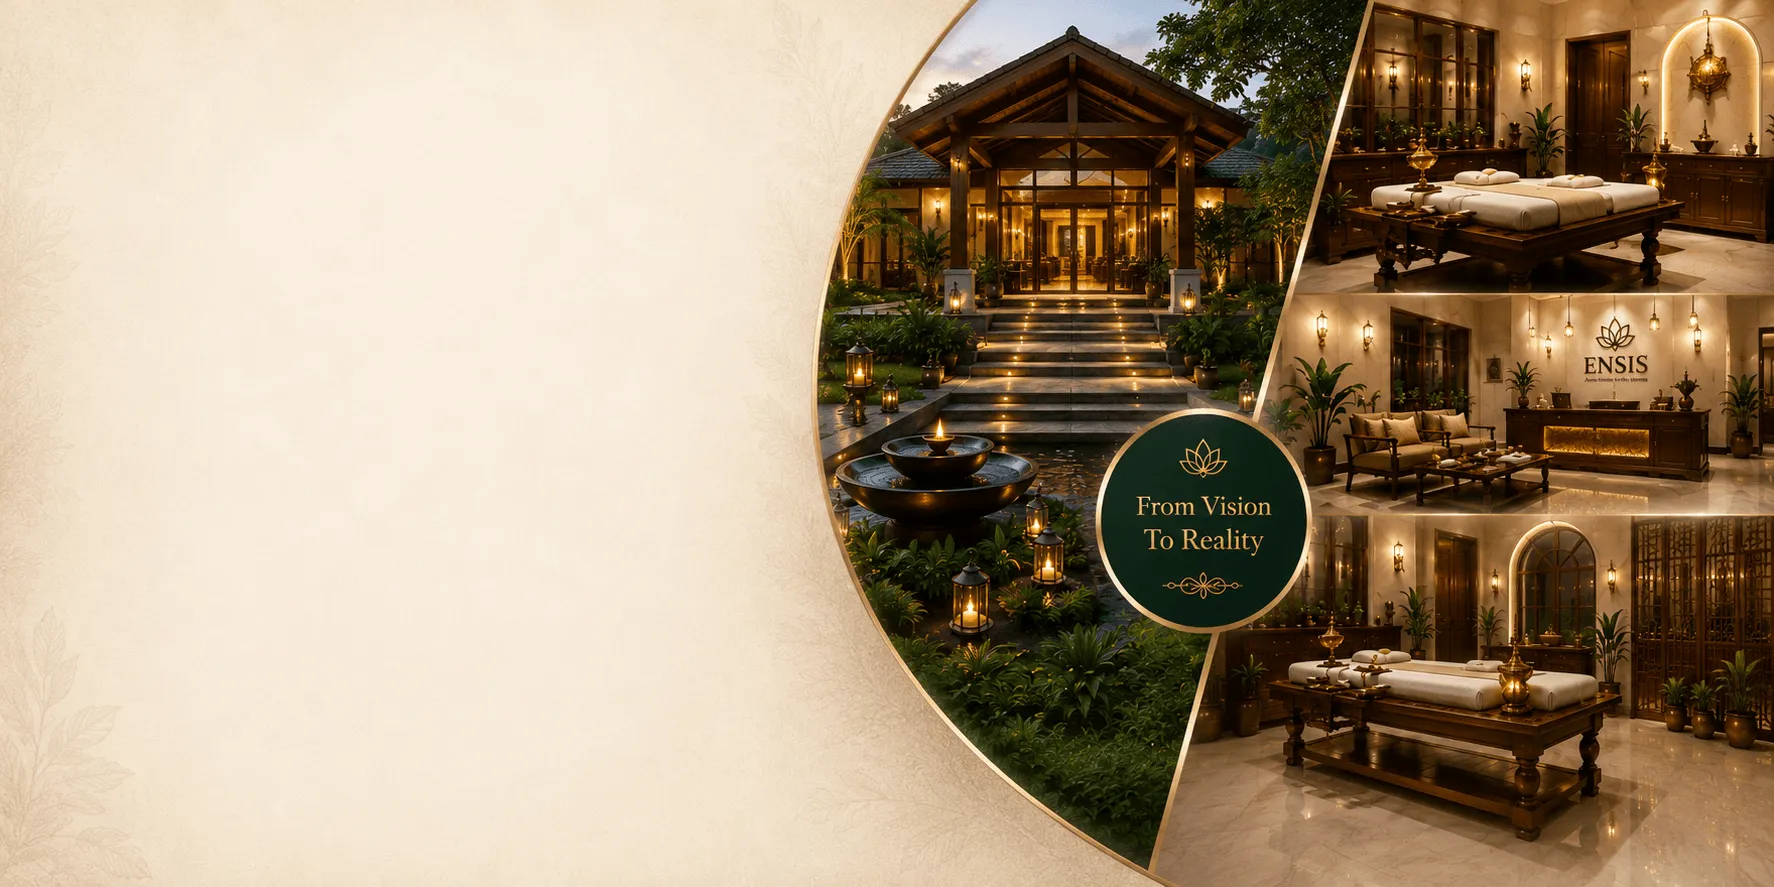
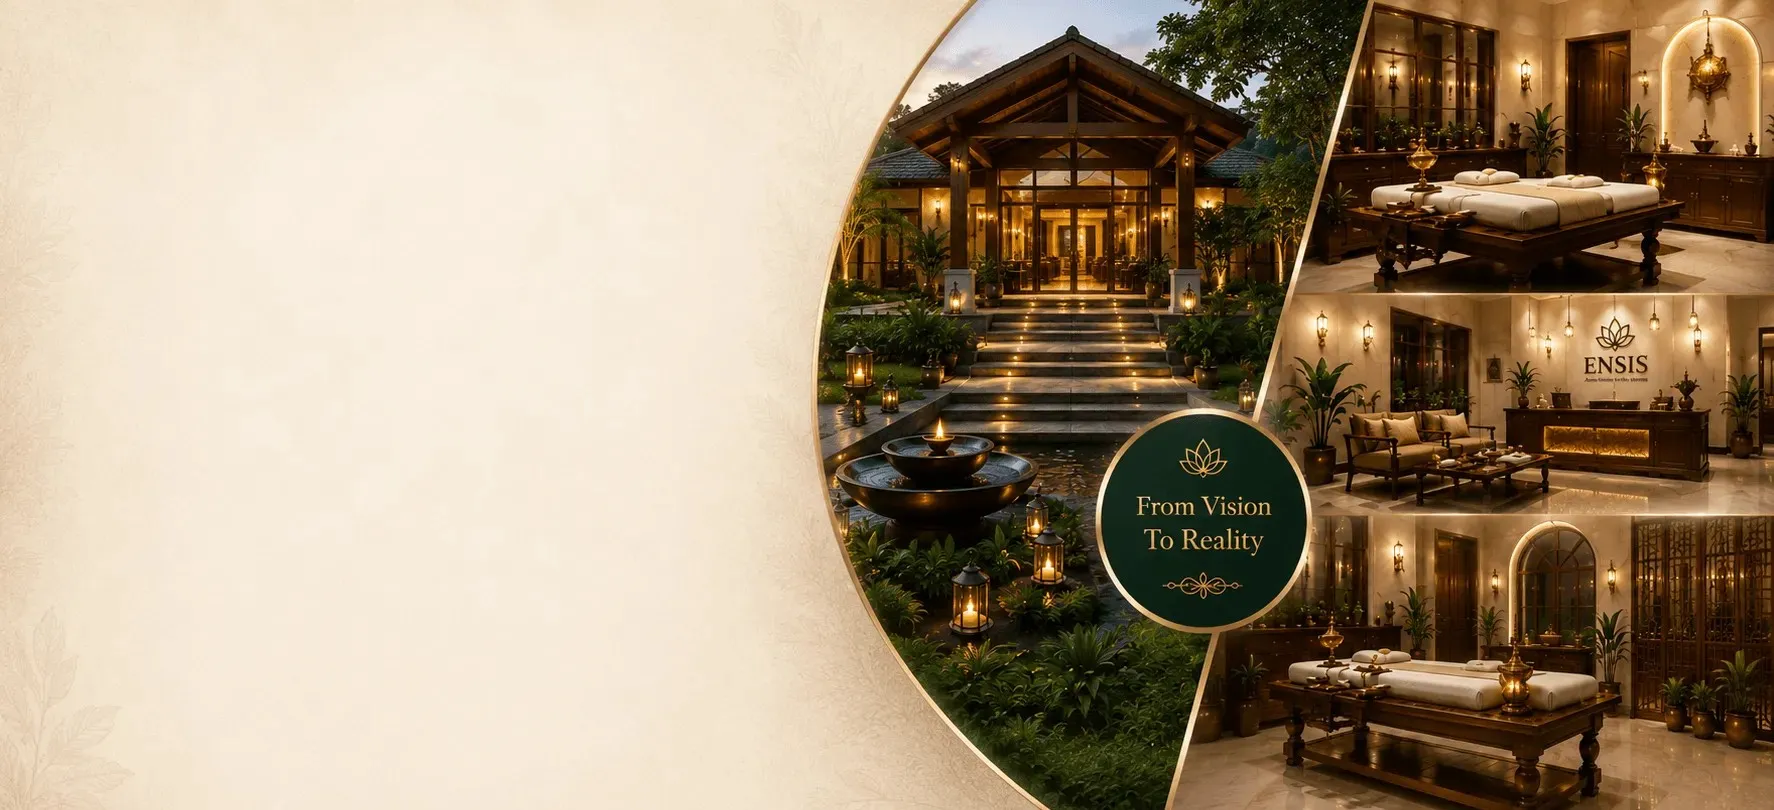
done

diff --git a/src/components/turnkey/WhyChoose.tsx b/src/components/turnkey/WhyChoose.tsx
@@ -10,6 +10,7 @@ import transparentBoqIcon from "@/assets/trunkey_solutions/why_choose/transparen
 import traditionalModernIcon from "@/assets/trunkey_solutions/why_choose/traditional_modern.webp";
 import wellnessIndustryIcon from "@/assets/trunkey_solutions/why_choose/wellness_industry.webp";
 import expertReadyIcon from "@/assets/trunkey_solutions/expert_ready_solution.webp";
+import { Container } from "../ui/Container";
 
 const STATS = [
   { value: "20+",   label: "Years of\nExperience" },
@@ -34,13 +35,13 @@ export default function WhyChoose() {
     <div className="w-full">
 
       {/* ── Top banner: "AND MANY MORE..." ── */}
-      <div className="bg-[#f5efe0] py-3 flex items-center gap-3 px-4 sm:px-6 lg:px-10">
+      <Container className="py-3 flex items-center gap-3">
         <div className="flex-1 h-px bg-[#c9972a] opacity-40" />
         <span className="text-[#d19f4f] text-base font-semibold uppercase tracking-[0.1em] whitespace-nowrap">
           ✦ And Many More Customised Wellness Facilities ✦
         </span>
         <div className="flex-1 h-px bg-[#c9972a] opacity-40" />
-      </div>
+      </Container>
 
       {/* ── Main dark section ── */}
       <div className="relative w-full overflow-hidden">
@@ -56,10 +57,10 @@ export default function WhyChoose() {
         </div>
 
         {/* Dark overlay */}
-        <div className="absolute inset-0 bg-[#0e1f0e]/80 z-[1]" />
+        {/* <div className="absolute inset-0 bg-[#0e1f0e]/80 z-[1]" /> */}
 
         {/* Content */}
-        <div className="relative z-10 max-w-[1400px] mx-auto px-4 sm:px-6 lg:px-10 py-6 sm:py-8">
+        <Container className="relative z-10 px-4 sm:px-6 lg:px-10 py-6 sm:py-8">
           <div className="flex flex-col lg:flex-row items-start lg:items-center gap-6 lg:gap-0">
 
             {/* ── LEFT: Section title + stats ── */}
@@ -118,7 +119,7 @@ export default function WhyChoose() {
             </div>
 
           </div>
-        </div>
+        </Container>
       </div>
     </div>
   );

diff --git a/src/components/turnkey/HeroBanner.tsx b/src/components/turnkey/HeroBanner.tsx
@@ -21,7 +21,7 @@ const FEATURES = [
 export default function TurnkeyHero() {
   return (
     <div className="min-h-[80vh] relative">
-        <Image src={banner_image} alt="banner_image" fill className="object-cover z-0! absolute fill" preload  />
+        <Image src={banner_image} alt="banner_image" fill className="object-cover z-0! absolute object-top" preload  />
       {/* ── HERO ── */}
       <Container className="relative z-20">
         <div className="grid grid-cols-1 lg:grid-cols-2 gap-10 lg:gap-8 items-center min-h-[80vh]">
